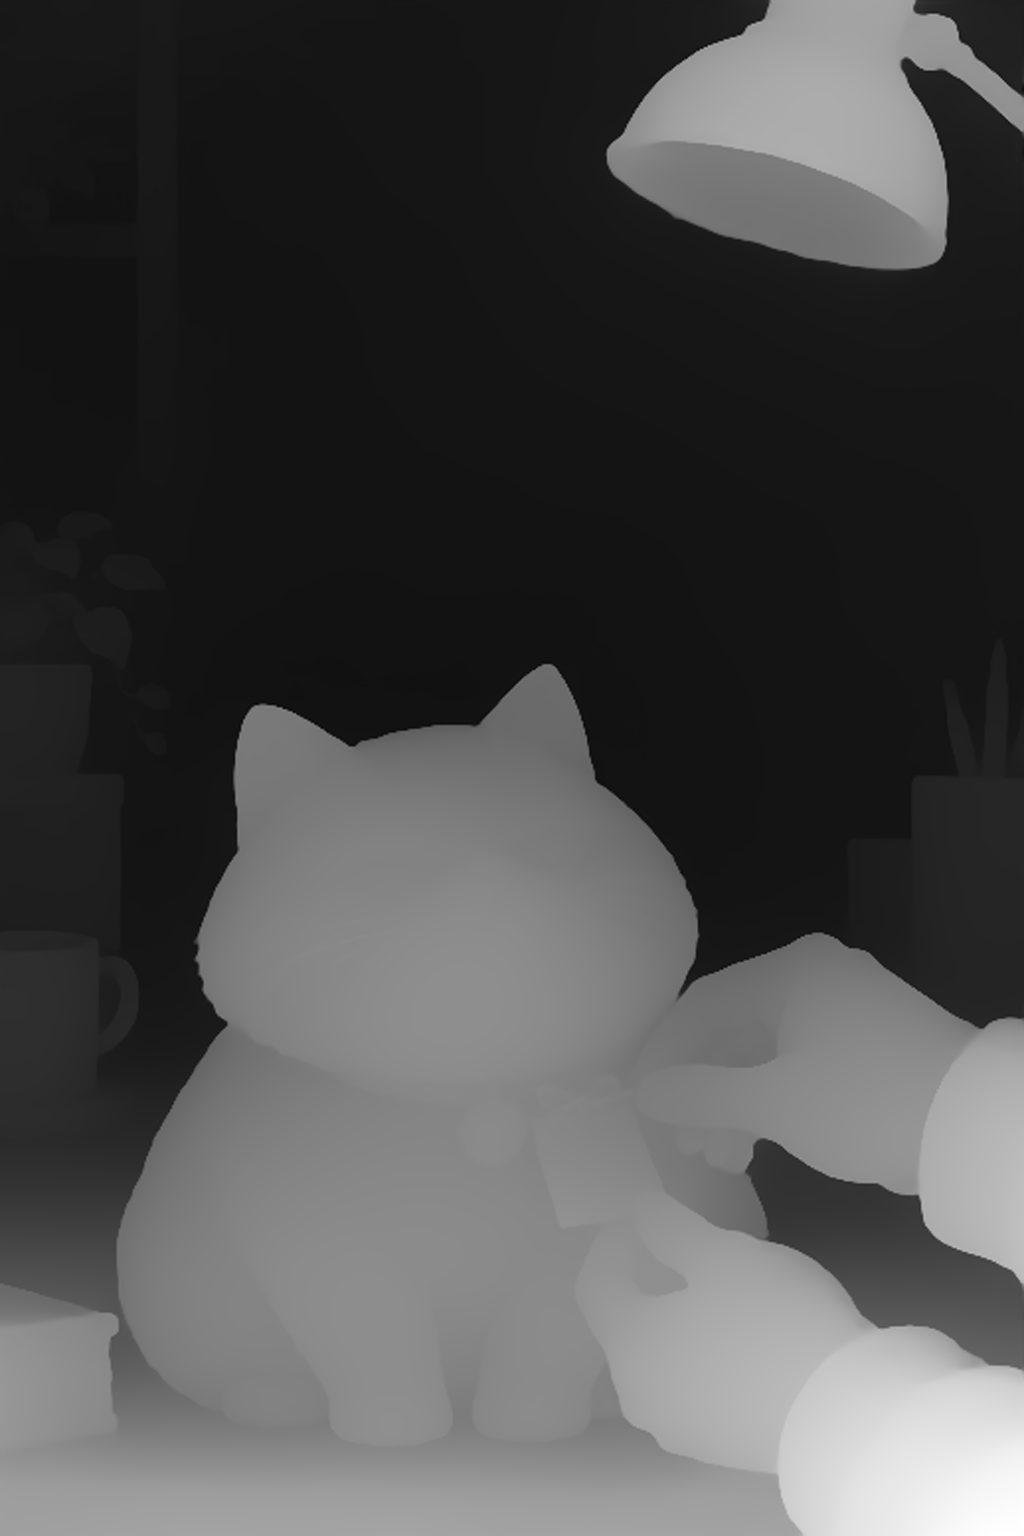
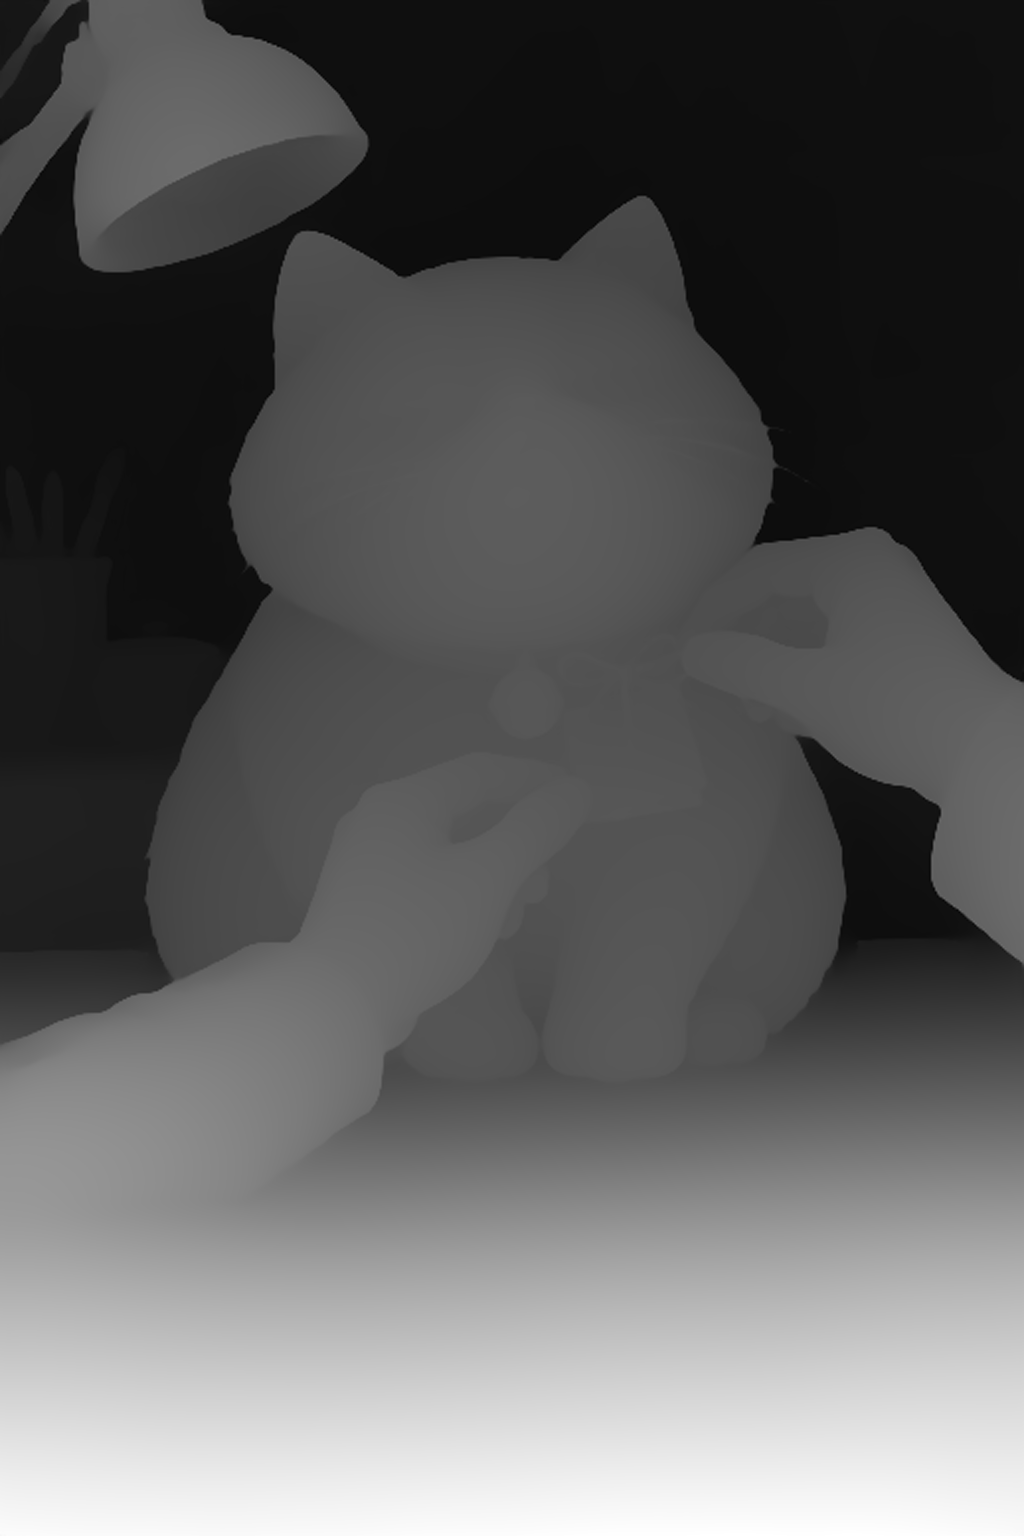
feat(render): per-episode parallax margin/zoom/pan; cat-2am subtitles lower + centred composition

diff --git a/tools/parallax.py b/tools/parallax.py
@@ -44,9 +44,9 @@ def ensure_depth(image: Path) -> Path:
     return out
 
 
-def _cover(img: np.ndarray, w: int, h: int, interp: int) -> np.ndarray:
+def _cover(img: np.ndarray, w: int, h: int, interp: int, margin: float = MARGIN) -> np.ndarray:
     import cv2
-    tw, th = int(w * (1 + MARGIN)), int(h * (1 + MARGIN))
+    tw, th = int(w * (1 + margin)), int(h * (1 + margin))
     s = max(tw / img.shape[1], th / img.shape[0])
     img = cv2.resize(img, (round(img.shape[1] * s), round(img.shape[0] * s)), interpolation=interp)
     y, x = (img.shape[0] - th) // 2, (img.shape[1] - tw) // 2
@@ -54,15 +54,17 @@ def _cover(img: np.ndarray, w: int, h: int, interp: int) -> np.ndarray:
 
 
 def render_parallax(image: Path, duration: float, out: Path, width: int, height: int, fps: int,
-                    variant: int = 0, post_vf: str = "", zoom: float = 0.10, pan: float = 0.035) -> None:
+                    variant: int = 0, post_vf: str = "", zoom: float = 0.10, pan: float = 0.035,
+                    margin: float = MARGIN) -> None:
     """Write a `duration`-second clip of `image` with a slow depth-aware dolly-in.
     `variant` alternates the sideways drift (even = right, odd = left) between consecutive clips.
-    `post_vf` is an extra ffmpeg filter chain (grade, fades) applied while encoding."""
+    `post_vf` is an extra ffmpeg filter chain (grade, fades) applied while encoding.
+    Smaller `margin` crops less of the image edges (keep zoom/pan small too, or edges stretch)."""
     import cv2
     img = cv2.imread(str(image), cv2.IMREAD_COLOR)
     d = cv2.imread(str(ensure_depth(image)), cv2.IMREAD_GRAYSCALE).astype(np.float32) / 255.0
-    img = _cover(img, width, height, cv2.INTER_LANCZOS4)
-    d = _cover(d, width, height, cv2.INTER_LINEAR)
+    img = _cover(img, width, height, cv2.INTER_LANCZOS4, margin)
+    d = _cover(d, width, height, cv2.INTER_LINEAR, margin)
     # Grow + soften near objects so their edges stretch smoothly instead of tearing.
     d = cv2.GaussianBlur(cv2.dilate(d, np.ones((9, 9), np.uint8)), (0, 0), 6)
 

diff --git a/tools/render_reel.py b/tools/render_reel.py
@@ -102,14 +102,16 @@ def render_still(image: Path, duration: float, out: Path, zoom_in: bool) -> None
          "-c:v", "libx264", "-pix_fmt", "yuv420p", "-r", str(FPS), str(out)])
 
 
-def render_image(image: Path, duration: float, out: Path, i: int, motion: str) -> None:
+def render_image(image: Path, duration: float, out: Path, i: int, motion: str, opts: dict | None = None) -> None:
     """Image segment: "parallax" (default, 2.5D depth move) or "zoom" (flat Ken Burns).
-    Falls back to zoom when opencv/depth are unavailable (e.g. Docker worker without torch)."""
+    Falls back to zoom when opencv/depth are unavailable (e.g. Docker worker without torch).
+    `opts` = episode "parallax" block, e.g. {"margin": 0.06, "zoom": 0.06, "pan": 0.02} to crop less."""
     if motion == "parallax":
         try:
             import parallax
             grade = f"eq=brightness=-0.08:saturation=0.9,fade=t=in:st=0:d=0.4,fade=t=out:st={max(duration - 0.4, 0):.2f}:d=0.4"
-            parallax.render_parallax(image, duration, out, WIDTH, HEIGHT, FPS, variant=i, post_vf=grade)
+            parallax.render_parallax(image, duration, out, WIDTH, HEIGHT, FPS, variant=i, post_vf=grade,
+                                     **(opts or {}))
             return
         except Exception as e:  # noqa: BLE001
             print(f"WARNING: parallax failed for {image.name} ({e}) -> zoom", file=sys.stderr)
@@ -140,7 +142,8 @@ def render_backgrounds(episode: dict, episode_dir: Path, kept: list[dict], work:
     for i, (key, start, dur) in enumerate(group_spans(kept, default, punch_in)):
         clip = work / f"bg{i:02d}.mp4"
         if not key.startswith("host"):
-            render_image(episode_dir / key, dur, clip, i, episode.get("motion", "parallax"))
+            render_image(episode_dir / key, dur, clip, i, episode.get("motion", "parallax"),
+                         episode.get("parallax"))
         elif use_video:
             zoom = float(key.split("@")[1]) if "@" in key else 1.0
             render_host_cut(host_video, start, dur, clip, zoom)
